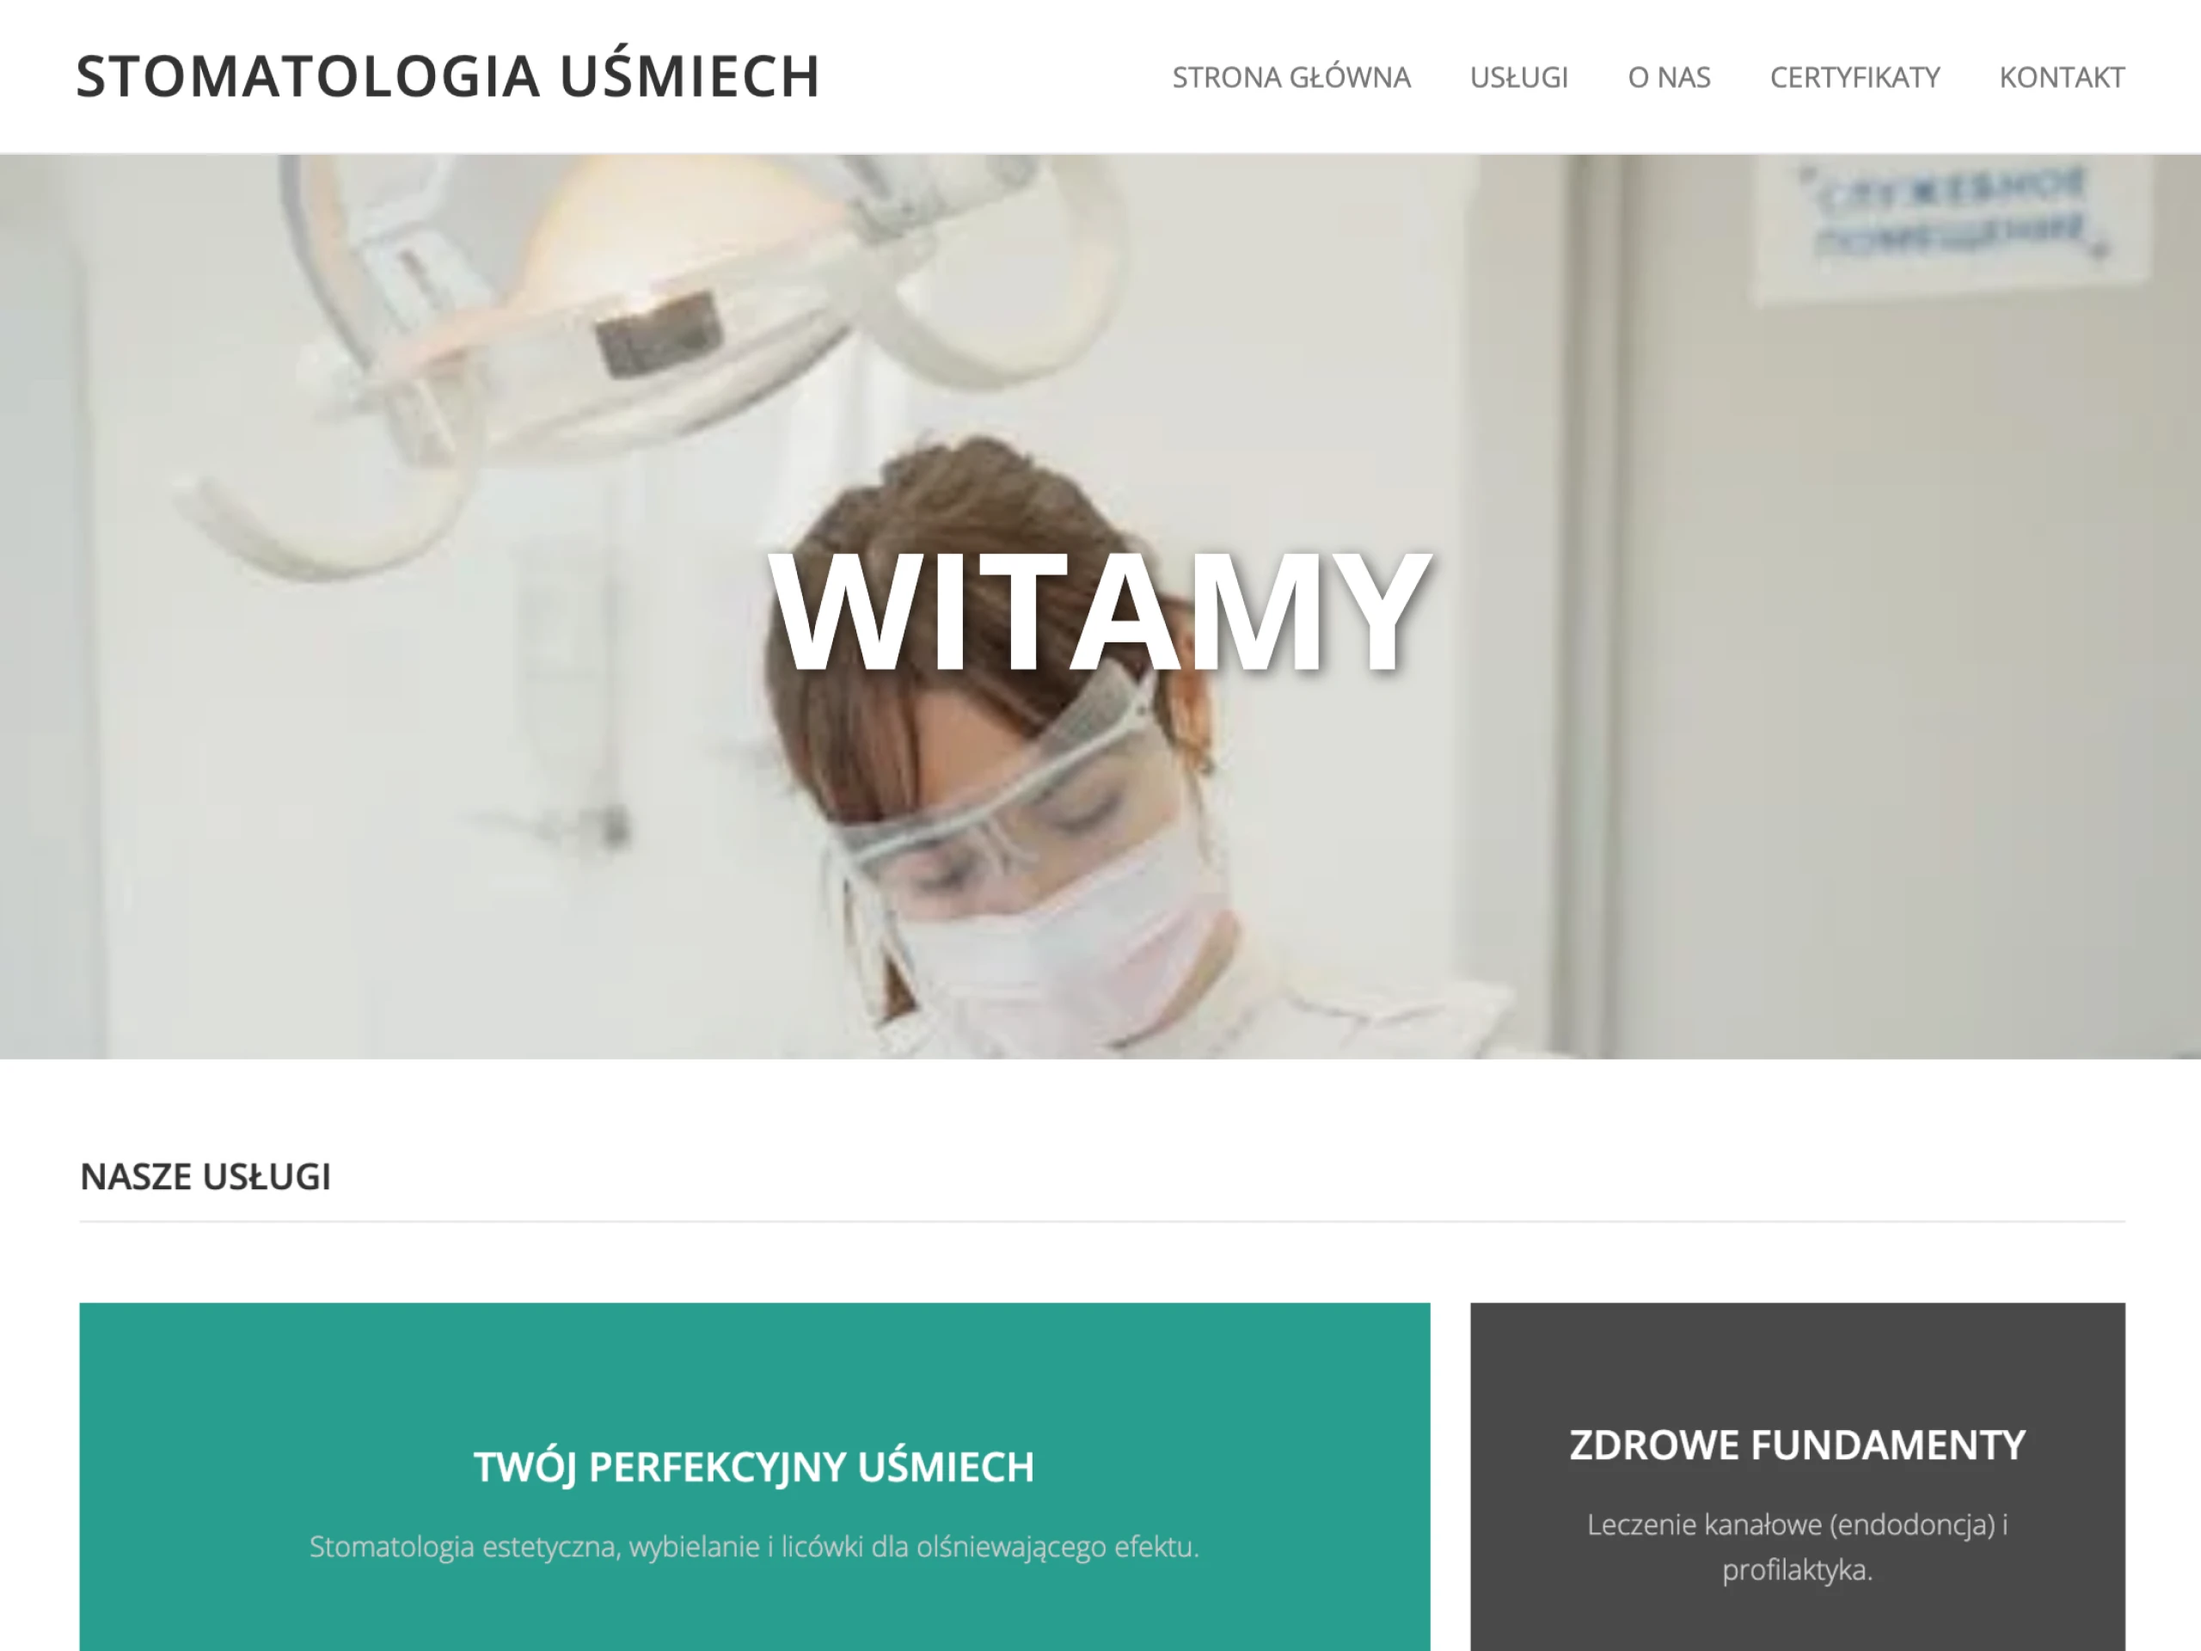
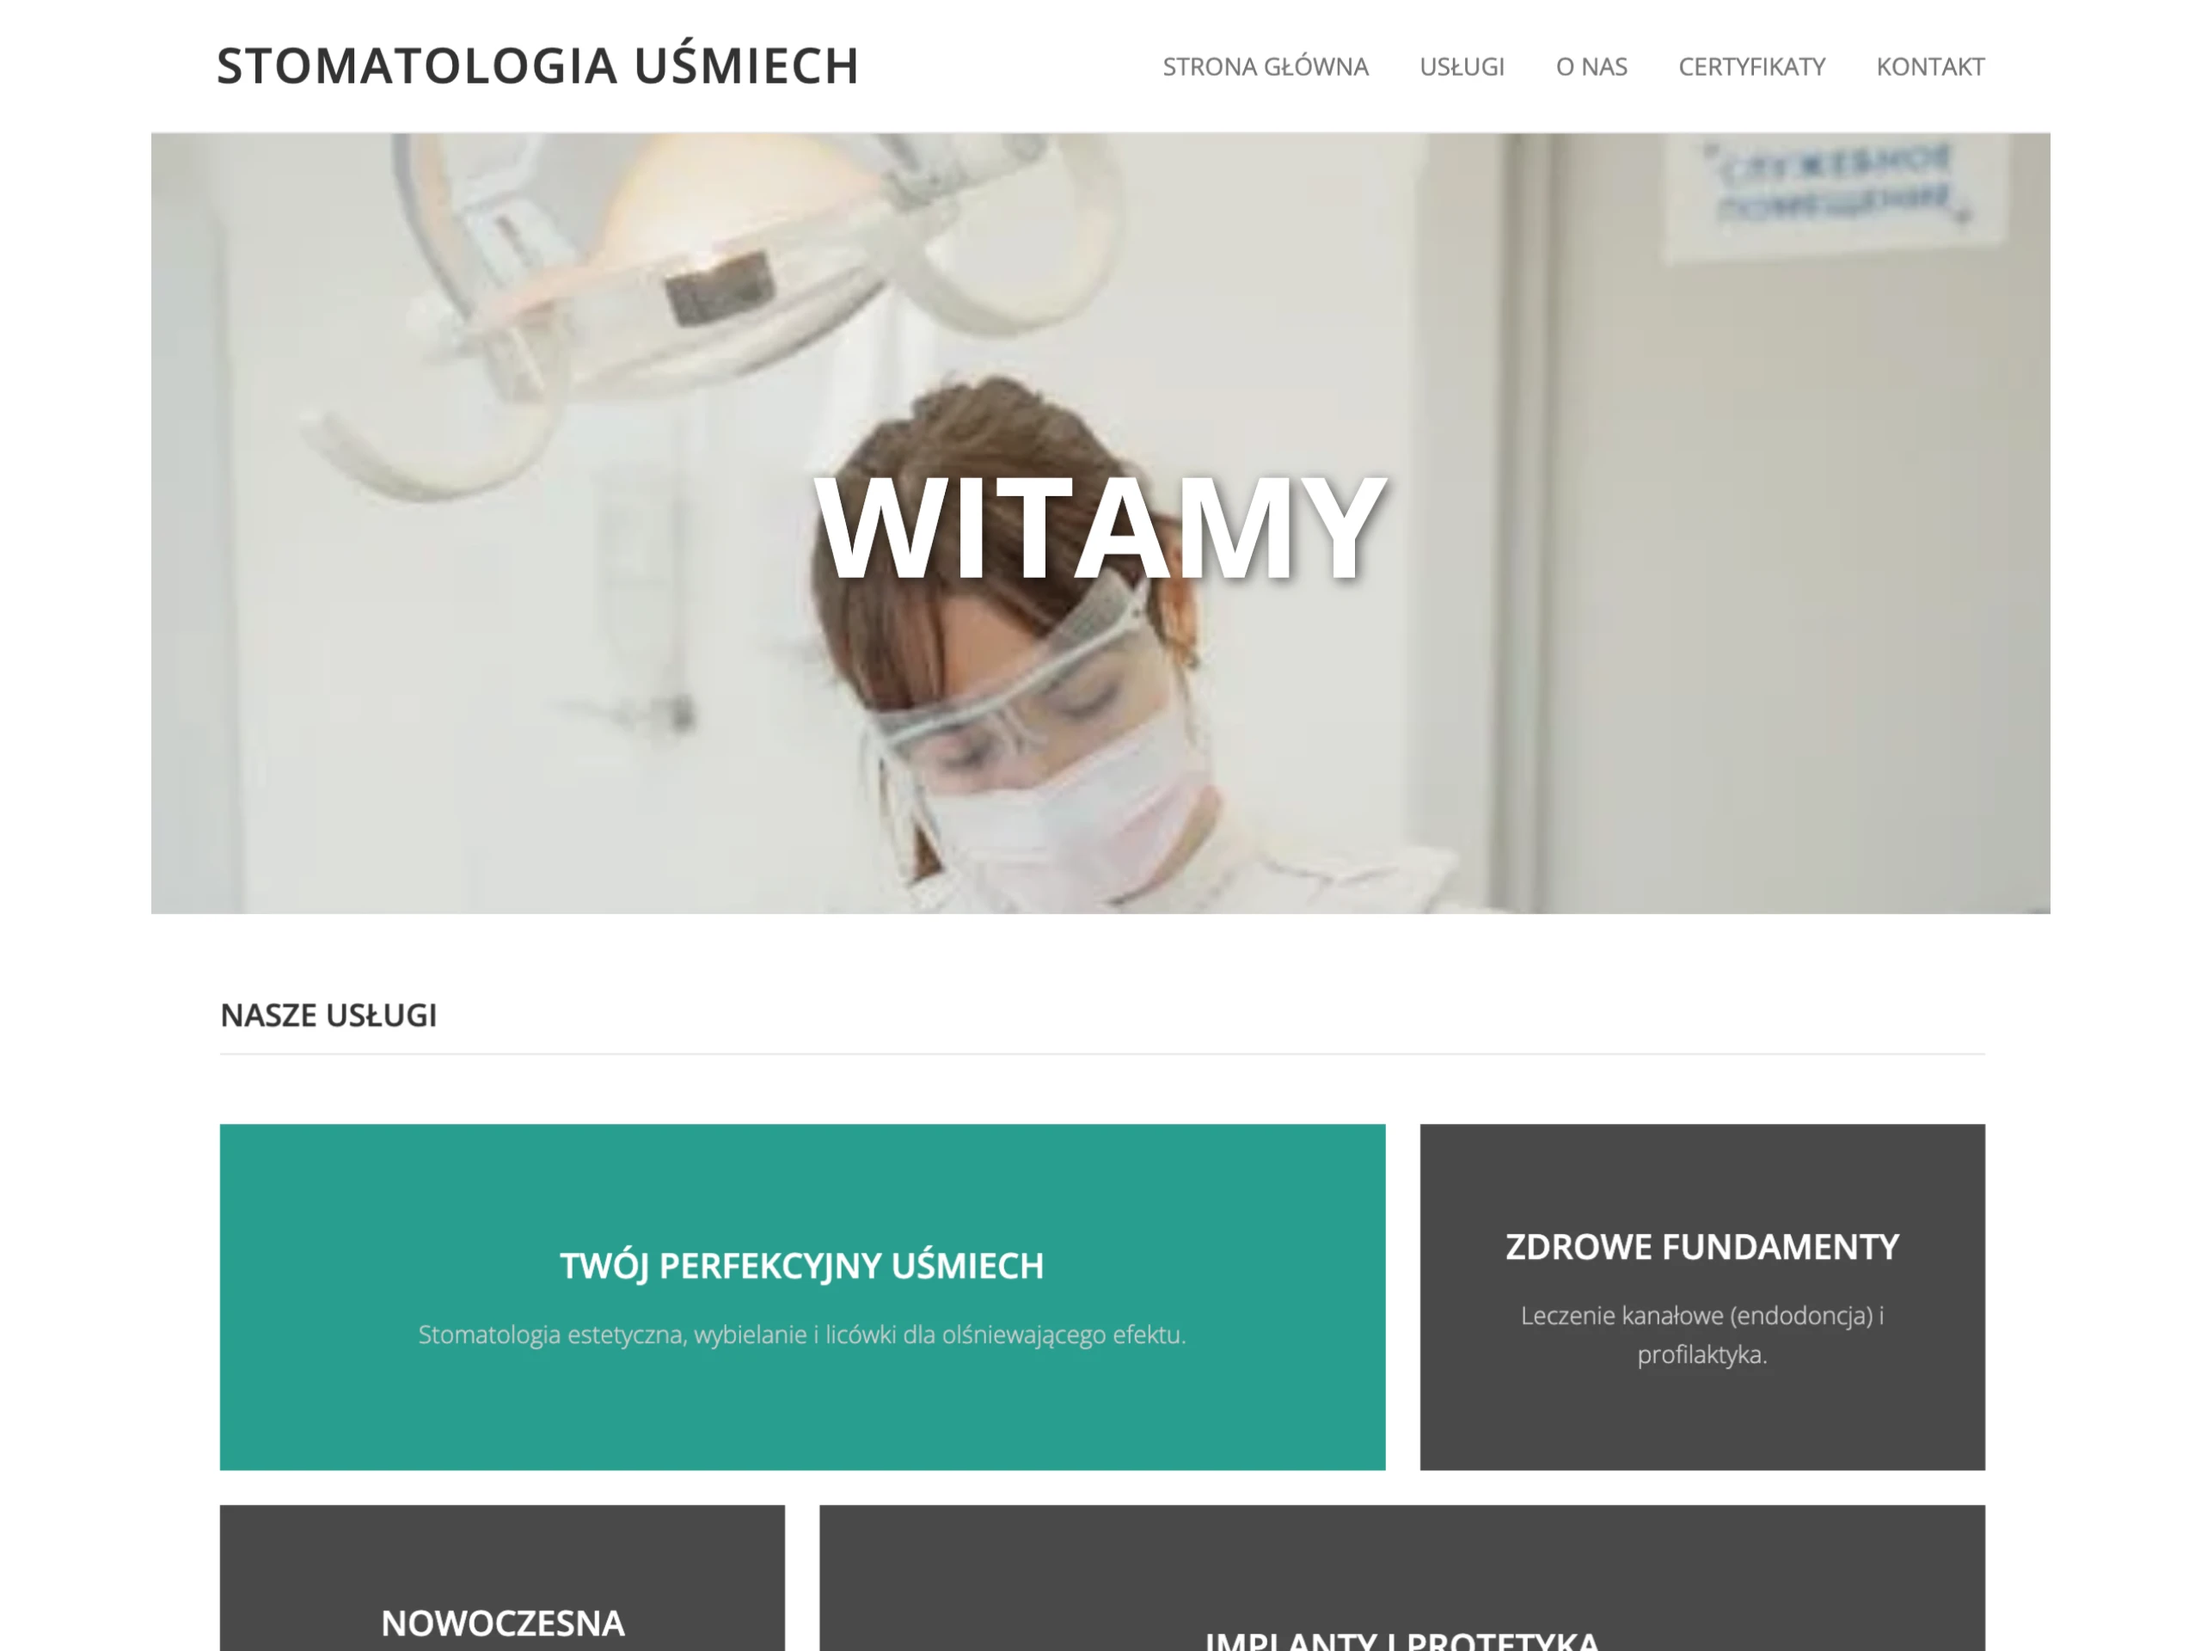
clinic finished

diff --git a/src/app/clinic/components/BeforeAfter.tsx b/src/app/clinic/components/BeforeAfter.tsx
@@ -117,7 +117,7 @@ export default function BeforeAfter() {
             >
               {/* Before Image (Right side) */}
               <div className="absolute inset-0 w-full h-full">
-                <Image src="/images/clinic/orto_clinic_d.webp" alt="Before" fill className="object-cover" />
+                <Image src="/images/clinic/stoma_clinic_d.webp" alt="Before" fill className="object-cover" />
               </div>
 
               {/* After Image (Left side) */}
@@ -130,14 +130,14 @@ export default function BeforeAfter() {
 
               {/* Slider Handle with enhanced visibility */}
               <div
-                className="absolute top-0 bottom-0 w-1 bg-white shadow-lg cursor-col-resize z-10 group-hover:w-2"
+                className="absolute top-0 bottom-0 w-1 bg-[#3498DB] shadow-lg cursor-col-resize z-10 group-hover:w-2"
                 style={{ left: `${sliderPosition}%`, transform: 'translateX(-50%)' }}
                 onMouseDown={handleStart}
                 onTouchStart={handleStart}
                 onTouchEnd={handleEnd}
               >
-                <div className="absolute top-1/2 left-1/2 transform -translate-x-1/2 -translate-y-1/2 w-8 h-8 bg-white rounded-full shadow-md flex items-center justify-center border-2 border-gray-300 group-hover:scale-110 transition-transform duration-200">
-                  <svg className="w-4 h-4 text-gray-600" fill="none" stroke="currentColor" viewBox="0 0 24 24">
+                <div className="absolute top-1/2 left-1/2 transform -translate-x-1/2 -translate-y-1/2 w-8 h-8 bg-[#3498DB] rounded-full shadow-md flex items-center justify-center border-2 border-white group-hover:scale-110 transition-transform duration-200">
+                   <svg className="w-4 h-4 text-white" fill="none" stroke="currentColor" viewBox="0 0 24 24">
                     <path strokeLinecap="round" strokeLinejoin="round" strokeWidth={2} d="M10 18L4 12L10 6" />
                     <path strokeLinecap="round" strokeLinejoin="round" strokeWidth={2} d="M14 18L20 12L14 6" />
                   </svg>

diff --git a/src/app/clinic/components/DemoSection.tsx b/src/app/clinic/components/DemoSection.tsx
@@ -19,8 +19,8 @@ export default function DemoSection() {
         "Mapa dojazdu"
       ],
       mockup: {
-        desktopImage: "/images/clinic/orto_clinic_d.webp",
-        mobileImage: "/images/clinic/orto_clinic_m.webp"
+        desktopImage: "/images/clinic/stoma_clinic_d.webp",
+        mobileImage: "/images/clinic/stoma_clinic_m.webp"
       }
     },
     {
@@ -38,21 +38,7 @@ export default function DemoSection() {
         mobileImage: "/images/clinic/orto_clinic_m.webp"
       }
     },
-    {
-      title: "Gabinet Medycyny Estetycznej",
-      category: "Medycyna estetyczna",
-      features: [
-        "Konsultacje online",
-        "Galeria efektów",
-        "Kalkulator kosztów",
-        "Blog o urodzie",
-        "Certyfikaty jakości"
-      ],
-      mockup: {
-        desktopImage: "/images/clinic/orto_clinic_d.webp",
-        mobileImage: "/images/clinic/orto_clinic_m.webp"
-      }
-    }
+
   ];
 
   return (
